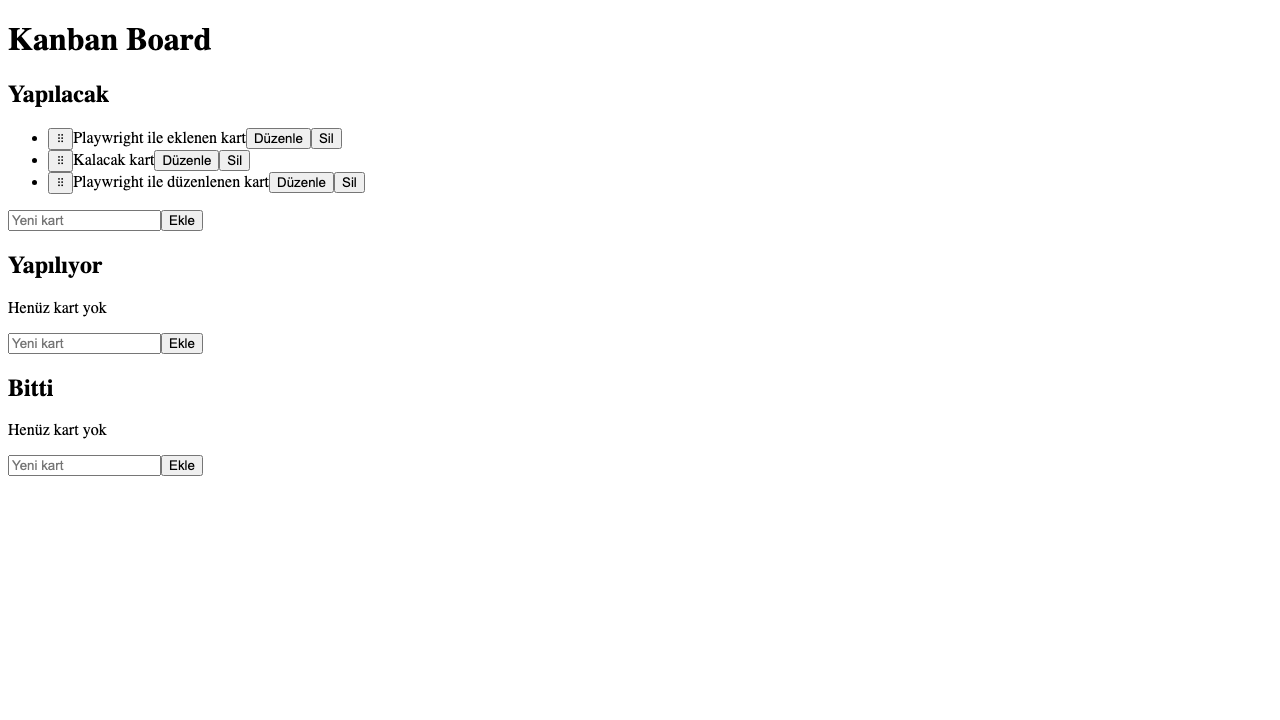
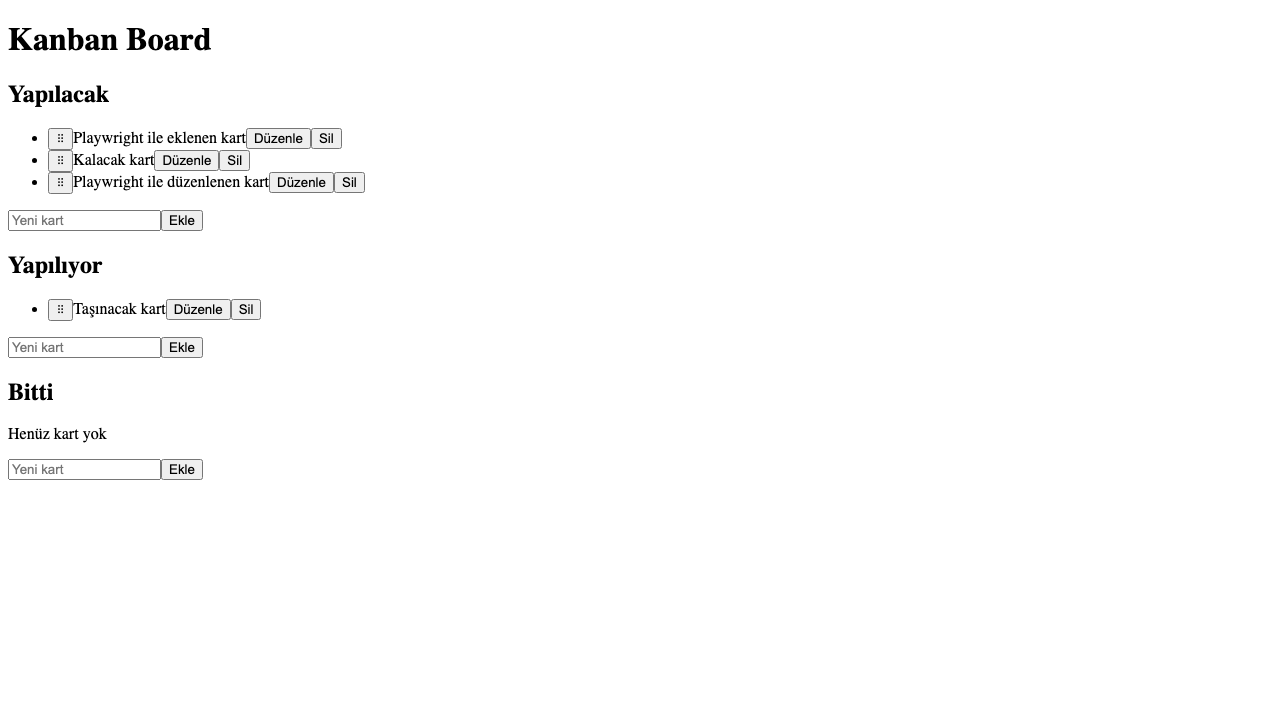
feat: kartların kolonlar arası sürükle-bırak ile taşınmasını ekle
- moveCardToColumn yardımcı fonksiyonu: kartı hedef kolona (kartın önüne
  ya da sona) taşır, girdiyi mutasyona uğratmaz
- Boş kolonlar useDroppable ile bırakma hedefi oldu
- closestCenter tam genişlik kartlarda sürüklenen kartın kendisini hedef
  seçtiğinden pointerWithin öncelikli, aktif kartı dışlayan özel çarpışma
  tespiti eklendi
- handleDragEnd kolonlar arası taşımayı API'ye kaydediyor
- Birim + bileşen testleri ve gerçek fare sürüklemesiyle Playwright
  e2e testi (move-card) eklendi

diff --git a/tests/board-dnd.test.jsx b/tests/board-dnd.test.jsx
@@ -120,7 +120,7 @@ test('hedef olmadan bırakılırsa sıra değişmez ve API çağrılmaz', async 
   expect(saveBoard).not.toHaveBeenCalled()
 })
 
-test('farklı kolondaki kartın üzerine bırakma bu aşamada yok sayılır', async () => {
+test('farklı kolondaki kartın üzerine bırakma kartı o kartın önüne taşır ve API\'ye kaydeder', async () => {
   fetchBoard.mockResolvedValue(boardWithCards())
 
   render(<Board />)
@@ -131,8 +131,63 @@ test('farklı kolondaki kartın üzerine bırakma bu aşamada yok sayılır', as
     dragEnd({ active: { id: 'c1' }, over: { id: 'c4' } })
   })
 
+  expect(cardTitles(todo)).toEqual([
+    expect.stringContaining('İkinci kart'),
+    expect.stringContaining('Üçüncü kart'),
+  ])
+  expect(cardTitles(inProgress)).toEqual([
+    expect.stringContaining('Birinci kart'),
+    expect.stringContaining('Başka kolon kartı'),
+  ])
+
+  expect(saveBoard).toHaveBeenCalledTimes(1)
+  const saved = saveBoard.mock.calls[0][0]
+  expect(saved.columns.find((c) => c.id === 'todo').cards.map((card) => card.id)).toEqual([
+    'c2',
+    'c3',
+  ])
+  expect(
+    saved.columns.find((c) => c.id === 'in-progress').cards.map((card) => card.id),
+  ).toEqual(['c1', 'c4'])
+})
+
+test('boş kolonun üzerine bırakma kartı o kolona taşır ve API\'ye kaydeder', async () => {
+  fetchBoard.mockResolvedValue(boardWithCards())
+
+  render(<Board />)
+
+  const todo = await screen.findByRole('region', { name: 'Yapılacak' })
+  const done = screen.getByRole('region', { name: 'Bitti' })
+  expect(within(done).getByText('Henüz kart yok')).toBeTruthy()
+
+  await act(async () => {
+    dragEnd({ active: { id: 'c2' }, over: { id: 'done' } })
+  })
+
+  expect(cardTitles(todo)).toEqual([
+    expect.stringContaining('Birinci kart'),
+    expect.stringContaining('Üçüncü kart'),
+  ])
+  expect(cardTitles(done)).toEqual([expect.stringContaining('İkinci kart')])
+
+  expect(saveBoard).toHaveBeenCalledTimes(1)
+  const saved = saveBoard.mock.calls[0][0]
+  expect(saved.columns.find((c) => c.id === 'done').cards.map((card) => card.id)).toEqual([
+    'c2',
+  ])
+})
+
+test('bilinmeyen bir hedefe bırakılırsa board değişmez ve API çağrılmaz', async () => {
+  fetchBoard.mockResolvedValue(boardWithCards())
+
+  render(<Board />)
+
+  const todo = await screen.findByRole('region', { name: 'Yapılacak' })
+  await act(async () => {
+    dragEnd({ active: { id: 'c1' }, over: { id: 'bilinmeyen-hedef' } })
+  })
+
   expect(cardTitles(todo)).toHaveLength(3)
-  expect(cardTitles(inProgress)).toHaveLength(1)
   expect(saveBoard).not.toHaveBeenCalled()
 })
 

diff --git a/src/components/Board.jsx b/src/components/Board.jsx
@@ -4,6 +4,8 @@ import {
   KeyboardSensor,
   PointerSensor,
   closestCenter,
+  pointerWithin,
+  useDroppable,
   useSensor,
   useSensors,
 } from '@dnd-kit/core'
@@ -15,13 +17,34 @@ import {
 } from '@dnd-kit/sortable'
 import { CSS } from '@dnd-kit/utilities'
 import { fetchBoard, saveBoard } from '../lib/api.js'
-import { findColumnOfCard, reorderCardInColumn } from '../lib/board.js'
+import { findColumnOfCard, moveCardToColumn, reorderCardInColumn } from '../lib/board.js'
 
 function createCardId() {
   if (typeof crypto !== 'undefined' && typeof crypto.randomUUID === 'function') {
     return crypto.randomUUID()
   }
   return `card-${Date.now()}-${Math.random().toString(36).slice(2)}`
+}
+
+// closestCenter tam genişlikteki kartlarda sürüklenen kartın kendisini hedef seçebiliyor;
+// önce işaretçinin üzerinde durduğu hedefi al ve aktif kartı her zaman aday listesinden çıkar
+function cardCollisionDetection(args) {
+  const droppableContainers = args.droppableContainers.filter(
+    (container) => container.id !== args.active.id,
+  )
+  const pointerCollisions = pointerWithin({ ...args, droppableContainers })
+  if (pointerCollisions.length > 0) return pointerCollisions
+  return closestCenter({ ...args, droppableContainers })
+}
+
+function EmptyColumnDropArea({ columnId }) {
+  // Boş kolonun droppable olması gerekir; yoksa kolonlar arası taşımada hedef bulunamaz
+  const { setNodeRef } = useDroppable({ id: columnId })
+  return (
+    <p ref={setNodeRef} className="empty">
+      Henüz kart yok
+    </p>
+  )
 }
 
 function SortableCard({ card, children }) {
@@ -132,11 +155,18 @@ export default function Board() {
     if (!over || active.id === over.id) return
 
     const activeColumn = findColumnOfCard(board, active.id)
-    const overColumn = findColumnOfCard(board, over.id)
-    // Bu aşamada yalnızca kolon içi sıralama destekleniyor
-    if (!activeColumn || activeColumn !== overColumn) return
+    if (!activeColumn) return
 
-    const next = reorderCardInColumn(board, activeColumn.id, active.id, over.id)
+    // over.id bir kart ya da (boş kolonlarda) doğrudan kolon id'si olabilir
+    const overCardColumn = findColumnOfCard(board, over.id)
+    const overColumn =
+      overCardColumn ?? board.columns.find((column) => column.id === over.id)
+    if (!overColumn) return
+
+    const next =
+      activeColumn.id === overColumn.id
+        ? reorderCardInColumn(board, activeColumn.id, active.id, over.id)
+        : moveCardToColumn(board, active.id, overColumn.id, overCardColumn ? over.id : null)
     if (next === board) return
     persist(next)
   }
@@ -145,14 +175,18 @@ export default function Board() {
   if (!board) return <p>Yükleniyor…</p>
 
   return (
-    <DndContext sensors={sensors} collisionDetection={closestCenter} onDragEnd={handleDragEnd}>
+    <DndContext
+      sensors={sensors}
+      collisionDetection={cardCollisionDetection}
+      onDragEnd={handleDragEnd}
+    >
       <div className="board">
         {saveError && <p role="alert">{saveError}</p>}
         {board.columns.map((column) => (
           <section key={column.id} className="column" aria-label={column.title}>
             <h2>{column.title}</h2>
             {column.cards.length === 0 ? (
-              <p className="empty">Henüz kart yok</p>
+              <EmptyColumnDropArea columnId={column.id} />
             ) : (
               <SortableContext
                 items={column.cards.map((card) => card.id)}

diff --git a/e2e/move-card.spec.js b/e2e/move-card.spec.js
@@ -1,0 +1,40 @@
+import { test, expect } from '@playwright/test'
+
+test('kart başka kolona sürüklenir ve yenilemeden sonra yeni yerinde kalır', async ({ page }) => {
+  await page.goto('/')
+
+  const todo = page.getByRole('region', { name: 'Yapılacak' })
+  const inProgress = page.getByRole('region', { name: 'Yapılıyor' })
+
+  await todo.getByLabel('Yapılacak kolonuna yeni kart').fill('Taşınacak kart')
+  await todo.getByRole('button', { name: 'Ekle', exact: true }).click()
+  await expect(todo.getByText('Taşınacak kart')).toBeVisible()
+
+  // dnd-kit PointerSensor 5px hareketten sonra devreye girer; adım adım fare hareketiyle sürükle
+  const handle = todo.getByRole('button', { name: 'Kartı taşı: Taşınacak kart' })
+  const dropTarget = inProgress.getByText('Henüz kart yok')
+  const handleBox = await handle.boundingBox()
+  const targetBox = await dropTarget.boundingBox()
+
+  await page.mouse.move(handleBox.x + handleBox.width / 2, handleBox.y + handleBox.height / 2)
+  await page.mouse.down()
+  await page.mouse.move(
+    targetBox.x + targetBox.width / 2,
+    targetBox.y + targetBox.height / 2,
+    { steps: 15 },
+  )
+  await page.mouse.up()
+
+  await expect(inProgress.getByText('Taşınacak kart')).toBeVisible()
+  await expect(todo.getByText('Taşınacak kart')).toBeHidden()
+
+  await page.reload()
+  await expect(
+    page.getByRole('region', { name: 'Yapılıyor' }).getByText('Taşınacak kart'),
+  ).toBeVisible()
+  await expect(
+    page.getByRole('region', { name: 'Yapılacak' }).getByText('Taşınacak kart'),
+  ).toBeHidden()
+
+  await page.screenshot({ path: 'artifacts/move-card.png', fullPage: true })
+})

diff --git a/src/lib/board.js b/src/lib/board.js
@@ -14,6 +14,30 @@ export function findColumnOfCard(board, cardId) {
   return board.columns.find((column) => column.cards.some((card) => card.id === cardId))
 }
 
+export function moveCardToColumn(board, cardId, targetColumnId, overCardId = null) {
+  const sourceColumn = findColumnOfCard(board, cardId)
+  const targetColumn = board.columns.find((c) => c.id === targetColumnId)
+  if (!sourceColumn || !targetColumn || sourceColumn.id === targetColumn.id) return board
+
+  const card = sourceColumn.cards.find((c) => c.id === cardId)
+  const targetCards = [...targetColumn.cards]
+  const overIndex = overCardId ? targetCards.findIndex((c) => c.id === overCardId) : -1
+  targetCards.splice(overIndex === -1 ? targetCards.length : overIndex, 0, card)
+
+  return {
+    ...board,
+    columns: board.columns.map((c) => {
+      if (c.id === sourceColumn.id) {
+        return { ...c, cards: c.cards.filter((x) => x.id !== cardId) }
+      }
+      if (c.id === targetColumn.id) {
+        return { ...c, cards: targetCards }
+      }
+      return c
+    }),
+  }
+}
+
 export function reorderCardInColumn(board, columnId, activeCardId, overCardId) {
   if (activeCardId === overCardId) return board
 

diff --git a/PLAN.md b/PLAN.md
@@ -24,7 +24,7 @@ GOAL.md'deki hedefin, her biri tek başına doğrulanabilir küçük görevlere 
 ## 4. Sürükle-bırak (dnd-kit)
 
 - [x] dnd-kit'i entegre et: kart bir kolon içinde sürükle-bırak ile sıralanabilsin; birim/bileşen testi ile doğrula
-- [ ] Kartların kolonlar arasında sürükle-bırak ile taşınmasını ekle ve sonucu API'ye kaydet; test + Playwright ile doğrula
+- [x] Kartların kolonlar arasında sürükle-bırak ile taşınmasını ekle ve sonucu API'ye kaydet; test + Playwright ile doğrula
 
 ## 5. Uçtan uca kalıcılık doğrulaması
 